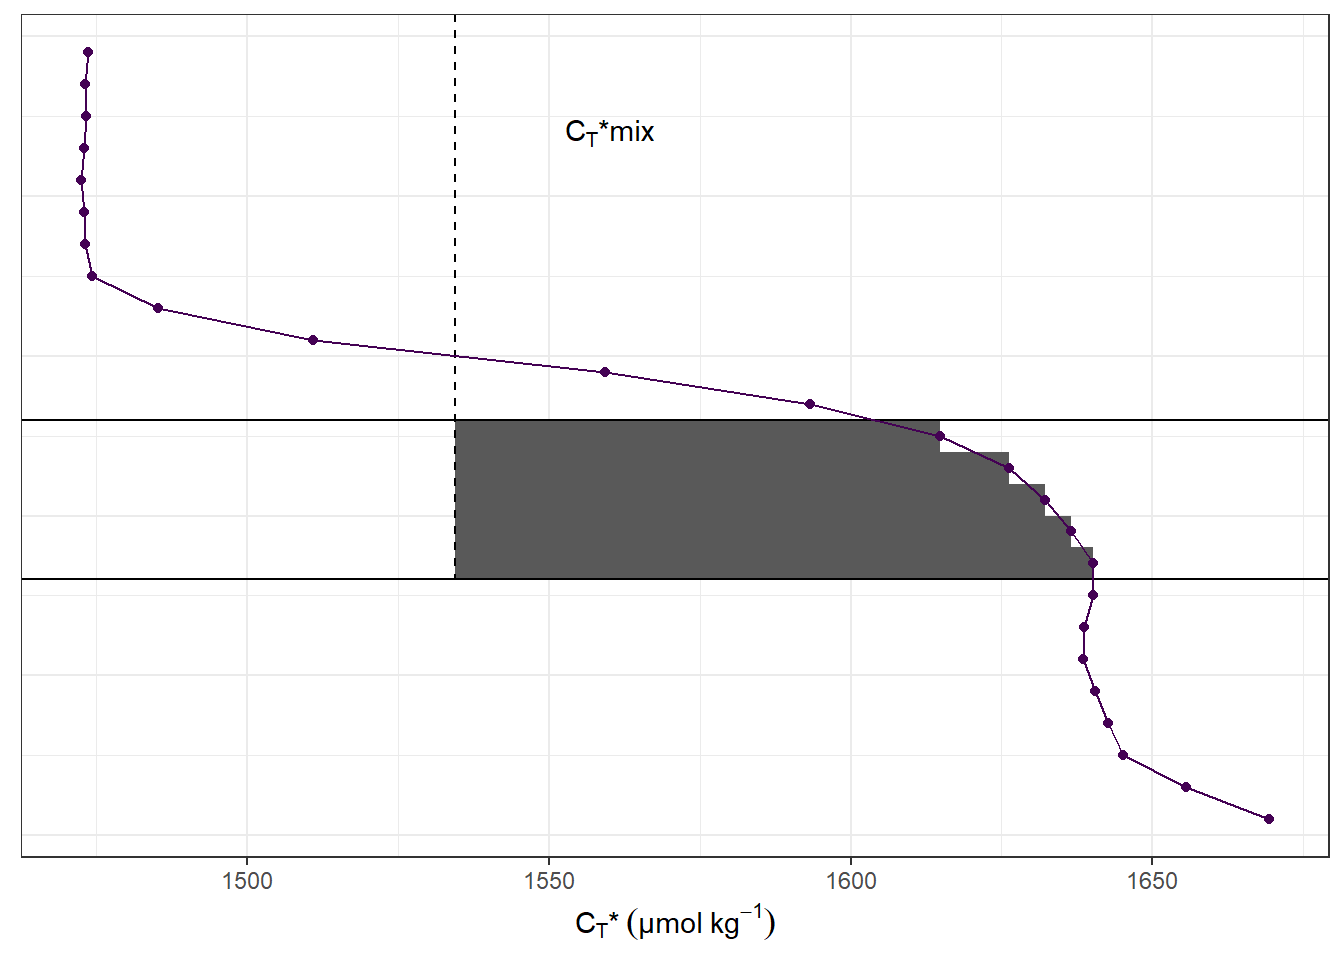
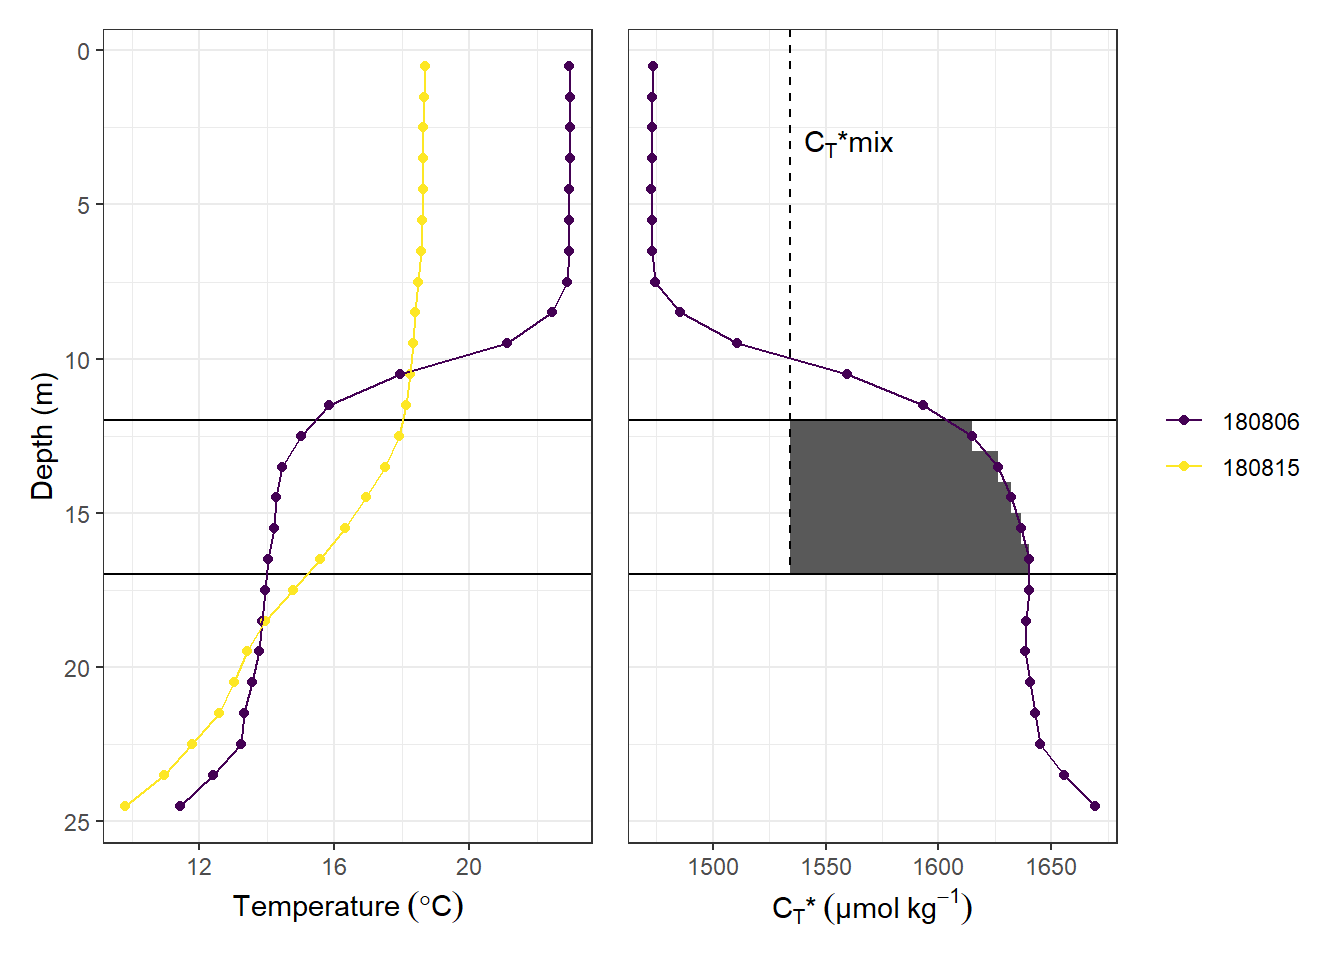
Build site.

diff --git a/docs/CT_dynamics.html b/docs/CT_dynamics.html
@@ -553,16 +553,16 @@ This reproducible <a href="http://rmarkdown.rstudio.com">R Markdown</a> analysis
 <div class="panel panel-default">
 <div class="panel-heading">
 <p class="panel-title">
-<a data-toggle="collapse" data-parent="#workflowr-checks" href="#strongRepositoryversionstrongahrefhttpsgithubcomjensdanielmuellerBloomSailtree7ee1f3459e455ad7f55a5e10203ef02ddcb3ebfetargetblank7ee1f34a"> <span class="glyphicon glyphicon-ok text-success" aria-hidden="true"></span> <strong>Repository version:</strong> <a href="https://github.com/jens-daniel-mueller/BloomSail/tree/7ee1f3459e455ad7f55a5e10203ef02ddcb3ebfe" target="_blank">7ee1f34</a> </a>
+<a data-toggle="collapse" data-parent="#workflowr-checks" href="#strongRepositoryversionstrongahrefhttpsgithubcomjensdanielmuellerBloomSailtree67495814c9df3983c04dabda174f8699df73add0targetblank6749581a"> <span class="glyphicon glyphicon-ok text-success" aria-hidden="true"></span> <strong>Repository version:</strong> <a href="https://github.com/jens-daniel-mueller/BloomSail/tree/67495814c9df3983c04dabda174f8699df73add0" target="_blank">6749581</a> </a>
 </p>
 </div>
[2 lines of base64/hex data omitted]
 <div class="panel-body">
 <p>
 Great! You are using Git for version control. Tracking code development and connecting the code version to the results is critical for reproducibility.
 </p>
 <p>
-The results in this page were generated with repository version <a href="https://github.com/jens-daniel-mueller/BloomSail/tree/7ee1f3459e455ad7f55a5e10203ef02ddcb3ebfe" target="_blank">7ee1f34</a>. See the <em>Past versions</em> tab to see a history of the changes made to the R Markdown and HTML files.
+The results in this page were generated with repository version <a href="https://github.com/jens-daniel-mueller/BloomSail/tree/67495814c9df3983c04dabda174f8699df73add0" target="_blank">6749581</a>. See the <em>Past versions</em> tab to see a history of the changes made to the R Markdown and HTML files.
 </p>
 <p>
 Note that you need to be careful to ensure that all relevant files for the analysis have been committed to Git prior to generating the results (you can use <code>wflow_publish</code> or <code>wflow_git_commit</code>). workflowr only checks the R Markdown file, but you know if there are other scripts or data files that it depends on. Below is the status of the Git repository when the results were generated:
@@ -619,6 +619,40 @@ Message
 </tr>
 </thead>
 <tbody>
+<tr>
+<td>
+Rmd
+</td>
+<td>
+<a href="https://github.com/jens-daniel-mueller/BloomSail/blob/67495814c9df3983c04dabda174f8699df73add0/analysis/CT_dynamics.Rmd" target="_blank">6749581</a>
+</td>
+<td>
+jens-daniel-mueller
+</td>
+<td>
+2020-10-26
+</td>
+<td>
+vertical entrainment plot generated
+</td>
+</tr>
+<tr>
+<td>
+html
+</td>
+<td>
+<a href="https://rawcdn.githack.com/jens-daniel-mueller/BloomSail/f8895feb18212176f848f01311ef510fc08dc7af/docs/CT_dynamics.html" target="_blank">f8895fe</a>
+</td>
+<td>
+jens-daniel-mueller
+</td>
+<td>
+2020-10-26
+</td>
+<td>
+Build site.
+</td>
+</tr>
 <tr>
 <td>
 Rmd
@@ -6673,9 +6707,8 @@ p_nCT &lt;- CT_profile %&gt;%
     axis.title.y = element_blank(),
     legend.position = &quot;none&quot;
   )
-p_nCT</code></pre>
-<p><img src="figure/CT_dynamics.Rmd/profiles_entrainment-1.png" width="672" style="display: block; margin: auto;" /></p>
-<pre class="r"><code>p_tem &lt;- tm_profiles_ID_long %&gt;%
+
+p_tem &lt;- tm_profiles_ID_long %&gt;%
   filter(ID %in% c(&quot;180806&quot;, &quot;180815&quot;),
          var %in% c(&quot;tem&quot;)) %&gt;%
   ggplot(aes(value, dep, col = ID)) +
@@ -6691,7 +6724,7 @@ p_nCT</code></pre>
 
 p_tem + p_nCT +
   plot_layout(guides = &#39;collect&#39;)</code></pre>
-<p><img src="figure/CT_dynamics.Rmd/profiles_entrainment-2.png" width="672" style="display: block; margin: auto;" /></p>
+<p><img src="figure/CT_dynamics.Rmd/profiles_entrainment-1.png" width="672" style="display: block; margin: auto;" /></p>
 <pre class="r"><code>ggsave(
   here::here(
     &quot;output/Plots/Figures_publication/appendix&quot;,
